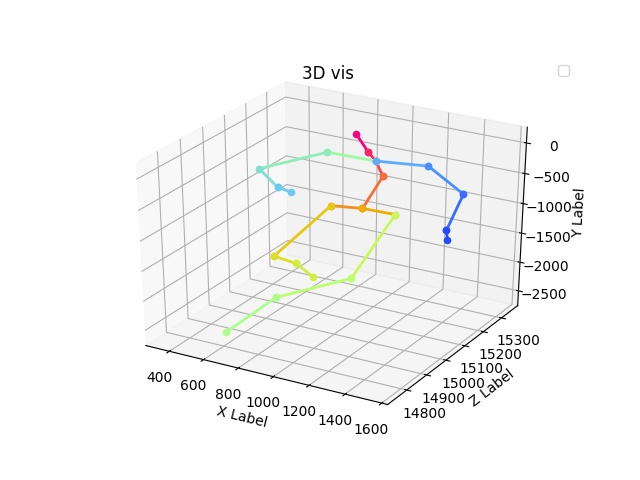
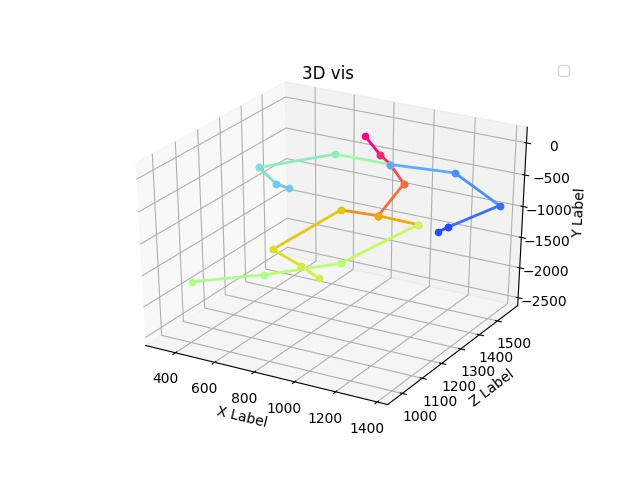
debug

Changed region(s): [[0.2188, 0.1875, 0.9062, 0.9062]]

diff --git a/rootnet.py b/rootnet.py
@@ -51,7 +51,7 @@ def get_root(person_boxes, person_images, k_values):
         rootnet_pred = rootnet_preds[i]
         rootnet_pred[0] = rootnet_pred[0] / rootnet_cfg.output_shape[1] * box[2] + box[0]
         rootnet_pred[1] = rootnet_pred[1] / rootnet_cfg.output_shape[0] * box[3] + box[1]
-        # cv2.circle(im, (rootnet_preds[i][0], rootnet_preds[i][1]), 5, (0, 0, 255), -1)
-        if pipeline_cfg.to_camera:
-            rootnet_pred[0], rootnet_pred[1], rootnet_pred[2] = pixel2cam(rootnet_pred, pipeline_cfg.f, np.array([box[2]/2, box[3]/2]))
+
+        # if pipeline_cfg.to_camera:
+        #     rootnet_pred[0], rootnet_pred[1], rootnet_pred[2] = pixel2cam(rootnet_pred, pipeline_cfg.f, np.array([box[2]/2, box[3]/2]))
     return rootnet_preds

diff --git a/config.py b/config.py
@@ -49,7 +49,7 @@ class Config:
     flip_pairs = ((2, 5), (3, 6), (4, 7), (8, 11), (9, 12), (10, 13))
     rootnet_model_inx = 18
     posenet_model_inx = 24
-    f = np.array([150, 150])
+    f = np.array([1500, 1500])
 
     to_camera = True
     vis = True
